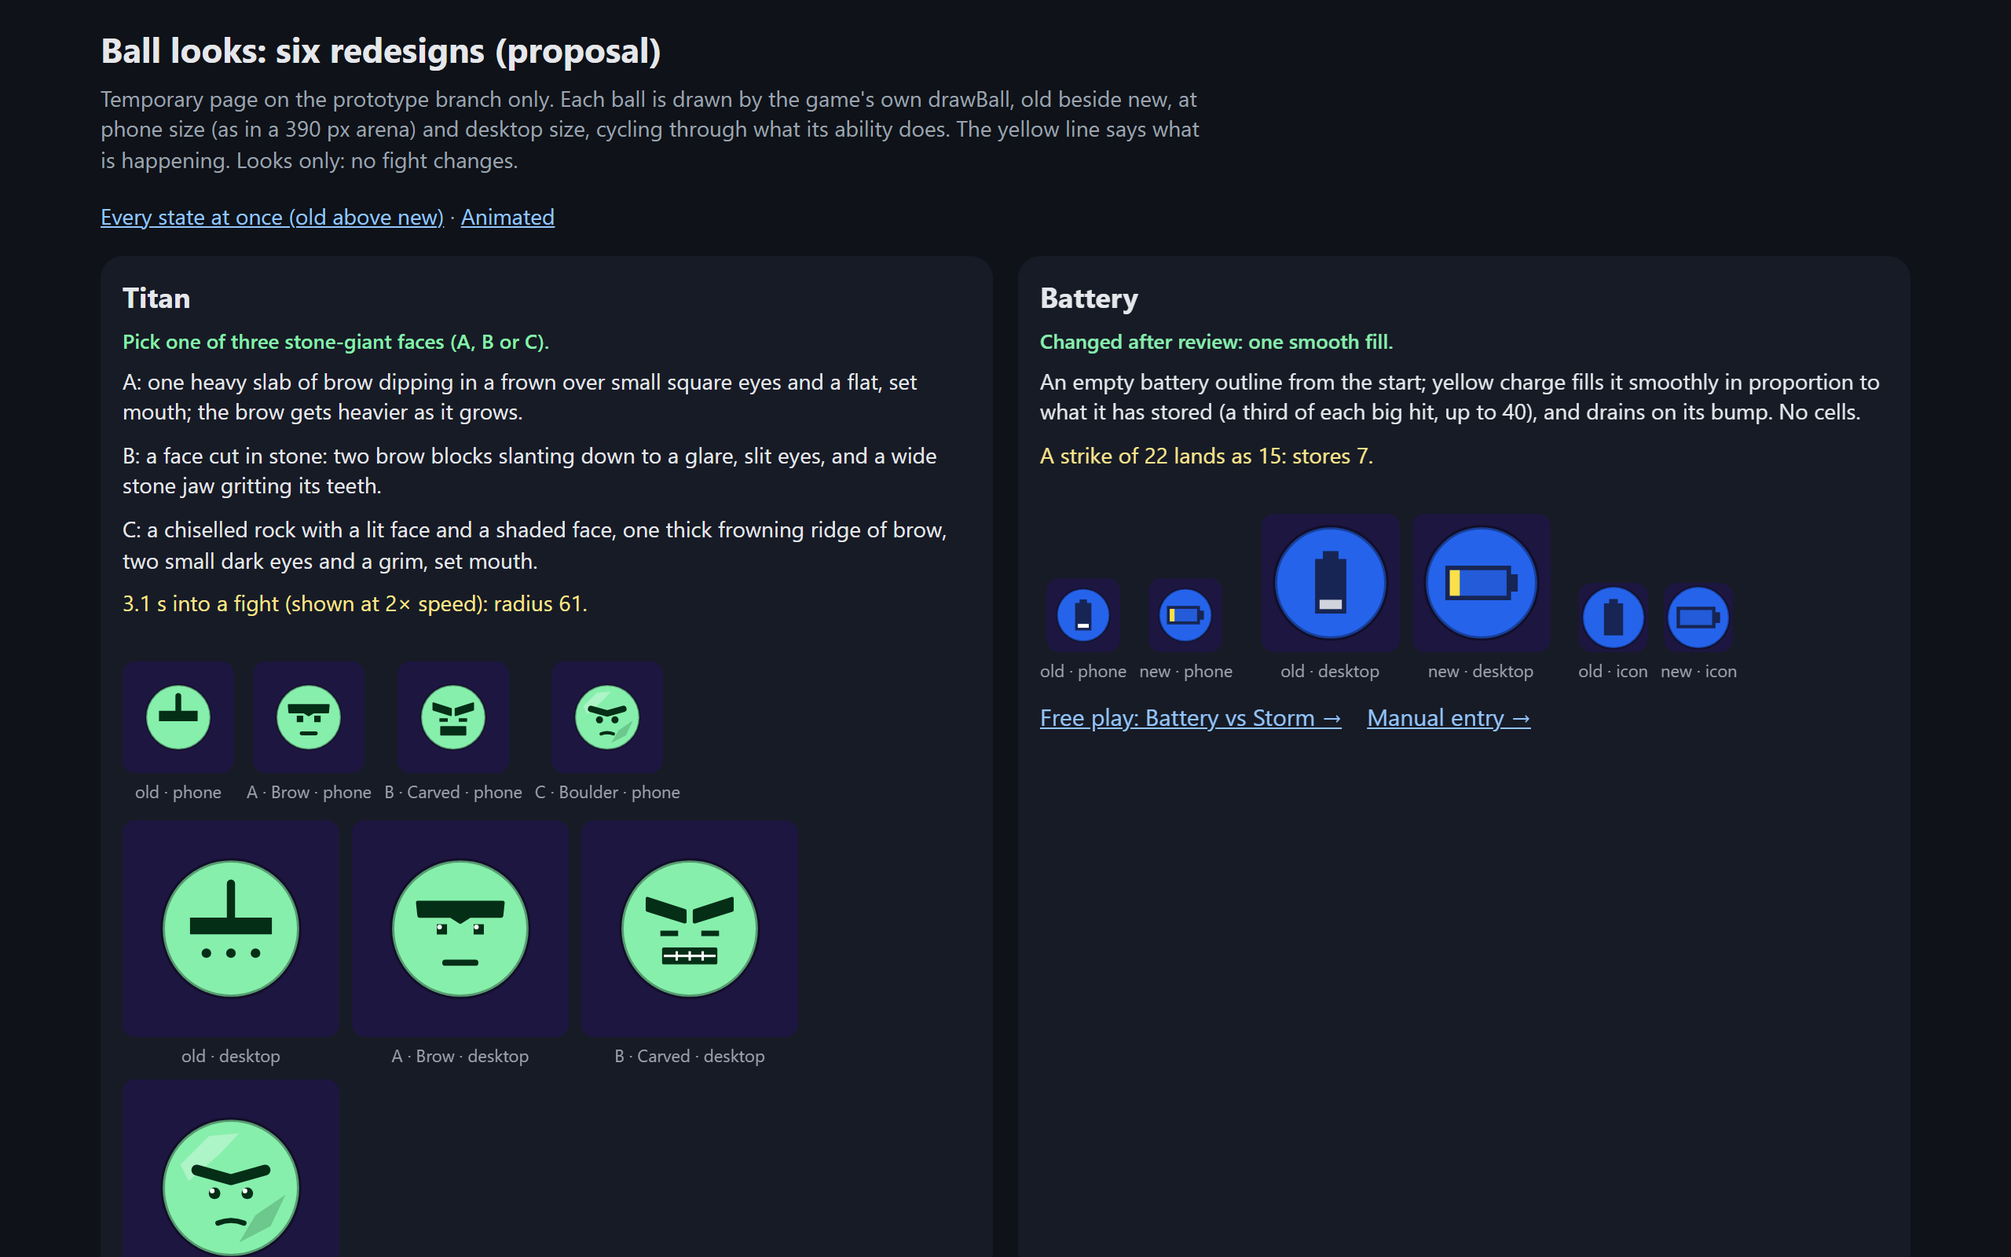
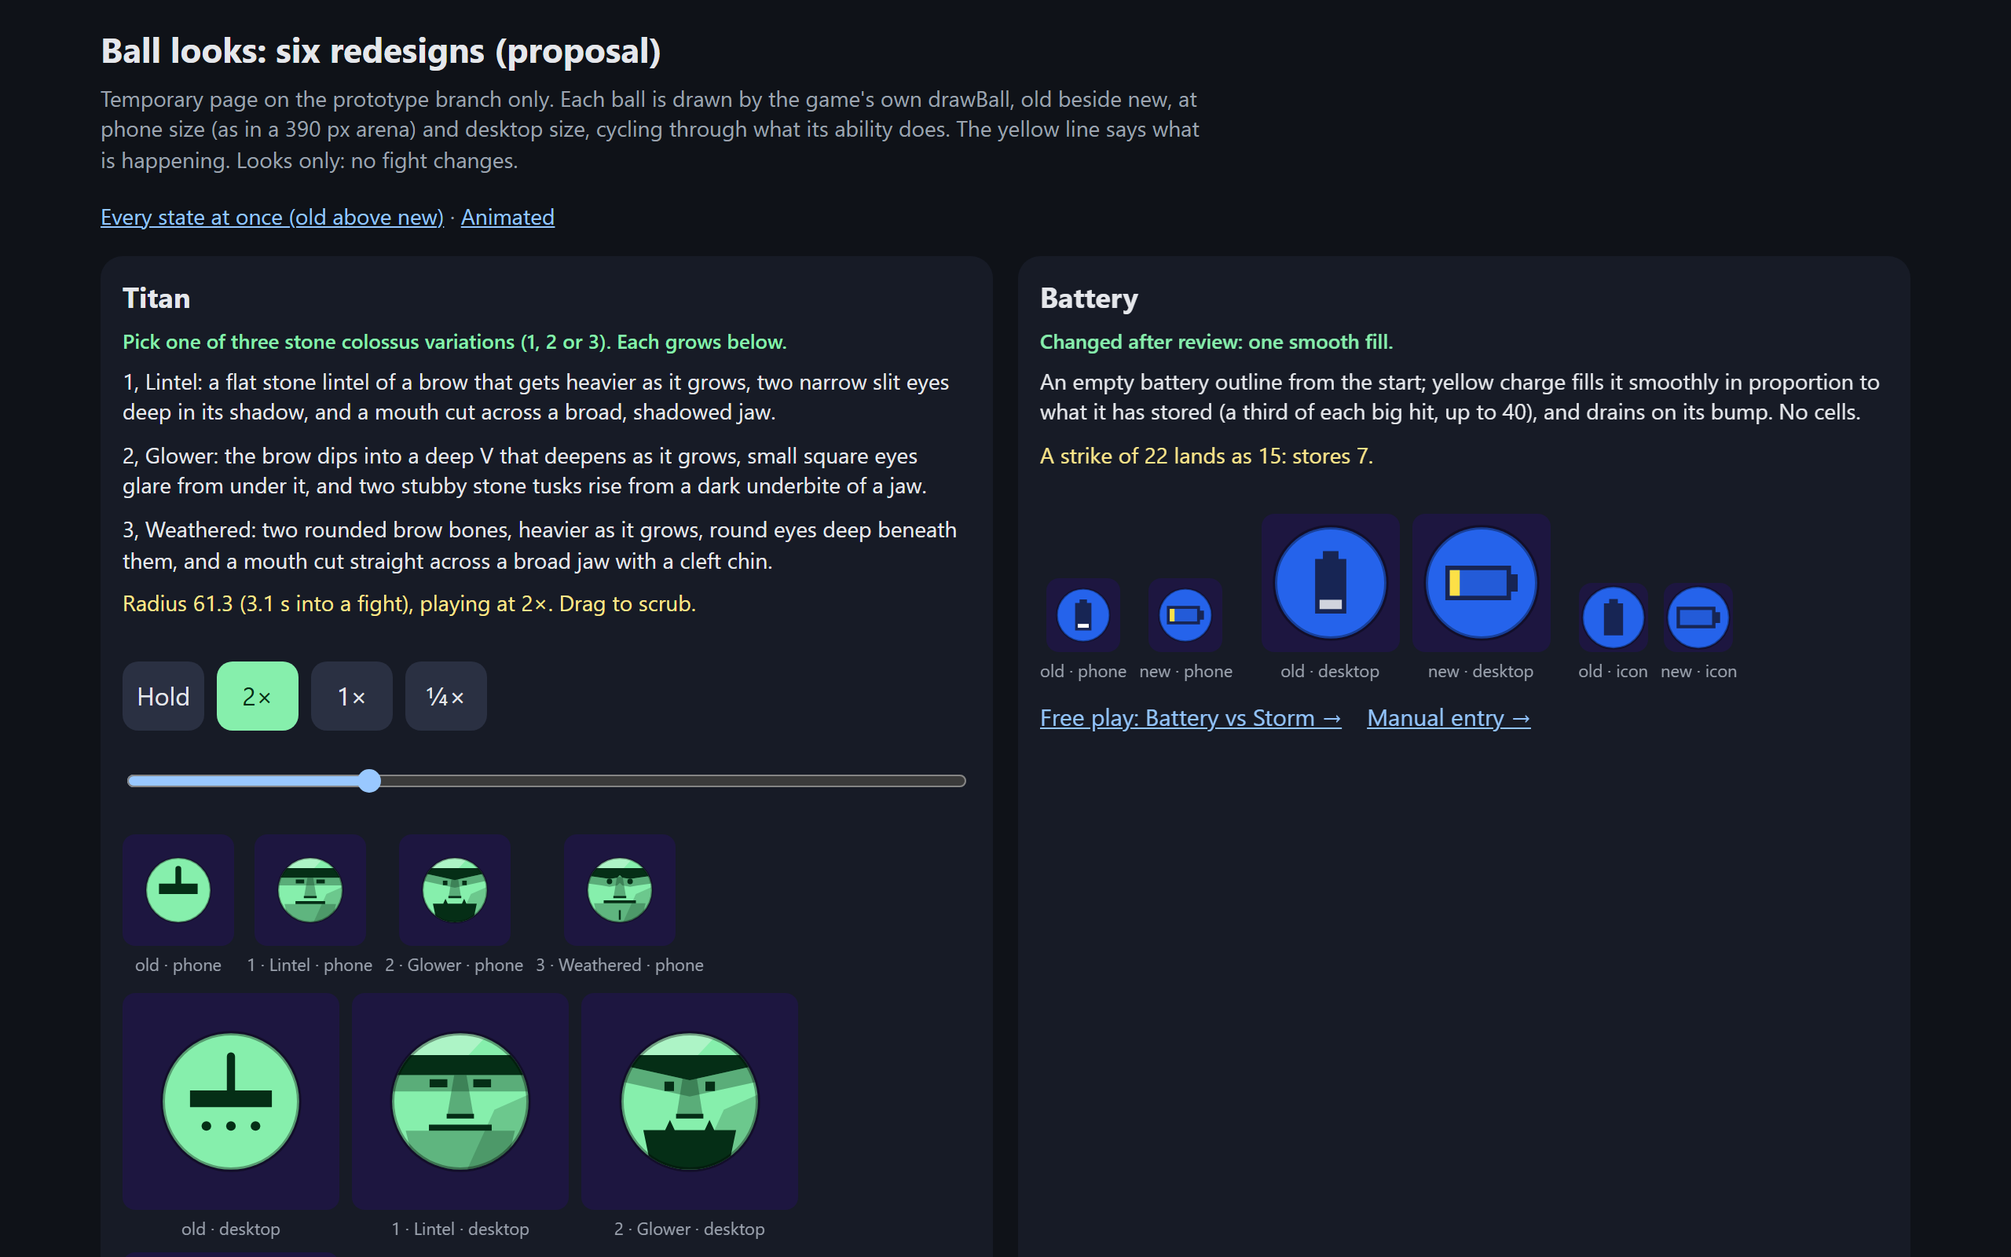
docs(proposal): gallery round 3, the colossus growing with a scrubber (prototype only)
Each Titan variation grows on its own at phone and desktop size, at 2x, 1x
or 1/4 speed or held at any size on a slider, with a Free play link each;
screenshots, draw cost and the write-up updated.

Changed region(s): [[0.0625, 0.25, 0.5, 1.0]]

diff --git a/src/gallery/scrub.ts b/src/gallery/scrub.ts
@@ -1,0 +1,79 @@
+// PROTOTYPE ONLY (proto/ball-looks): the Titan's growth controls in the gallery: play it at full,
+// normal or quarter speed, or drag the slider through every size by hand, so a jump would show.
+import { MAX_RADIUS, titanRadius } from '../sim/balls/titan.ts';
+import { STANDARD_BALL_RADIUS } from '../sim/constants.ts';
+import type { GalleryState } from './timelines.ts';
+
+const GROW_TICKS = 667;
+const HOLD_TICKS = 180;
+const SPEEDS = [
+  ['2×', 2],
+  ['1×', 1],
+  ['¼×', 0.25],
+] as const;
+
+export interface Scrub {
+  readonly element: HTMLElement;
+  /** The Titan's state for this frame, `ms` since the page began. */
+  readonly state: (ms: number) => GalleryState;
+}
+
+export function titanScrub(): Scrub {
+  let speed = 2;
+  let playing = true;
+  let growth = 0;
+  let last: number | undefined;
+  const element = document.createElement('div');
+  element.className = 'scrub';
+  const slider = document.createElement('input');
+  slider.type = 'range';
+  slider.min = String(STANDARD_BALL_RADIUS);
+  slider.max = String(MAX_RADIUS);
+  slider.step = '0.1';
+  slider.value = slider.min;
+  slider.setAttribute('aria-label', 'Titan size');
+  slider.addEventListener('input', () => {
+    playing = false;
+    play.textContent = 'Play';
+  });
+  const play = document.createElement('button');
+  play.type = 'button';
+  play.textContent = 'Hold';
+  play.addEventListener('click', () => {
+    playing = !playing;
+    play.textContent = playing ? 'Hold' : 'Play';
+  });
+  const buttons = SPEEDS.map(([label, value]) => {
+    const button = document.createElement('button');
+    button.type = 'button';
+    button.textContent = label;
+    button.dataset['on'] = String(value === speed);
+    button.addEventListener('click', () => {
+      speed = value;
+      playing = true;
+      play.textContent = 'Hold';
+      for (const other of buttons) other.dataset['on'] = String(other === button);
+    });
+    return button;
+  });
+  element.append(play, ...buttons, slider);
+
+  const state = (ms: number): GalleryState => {
+    const step = last === undefined ? 0 : ((ms - last) / 1000) * 60 * speed;
+    last = ms;
+    let radius = Number(slider.value);
+    if (playing) {
+      growth = (growth + step) % (GROW_TICKS + HOLD_TICKS);
+      radius = titanRadius(Math.min(growth, GROW_TICKS));
+      slider.value = radius.toFixed(1);
+    }
+    const seconds = (radius - STANDARD_BALL_RADIUS) / 0.06 / 60;
+    const how = playing ? `playing at ${SPEEDS.find(([, v]) => v === speed)?.[0] ?? ''}` : 'held';
+    return {
+      caption: `Radius ${radius.toFixed(1)} (${seconds.toFixed(1)} s into a fight), ${how}. Drag to scrub.`,
+      radius,
+      tick: Math.floor((ms / 1000) * 60),
+    };
+  };
+  return { element, state };
+}

diff --git a/src/gallery/main.ts b/src/gallery/main.ts
@@ -13,6 +13,7 @@ import { RULESET_VERSION } from '../sim/ruleset.ts';
 import type { BallState, WorldState } from '../sim/types.ts';
 import { createWorld } from '../sim/world.ts';
 import { ENTRIES, type Entry } from './entries.ts';
+import { titanScrub } from './scrub.ts';
 import { TIMELINES, type GalleryState } from './timelines.ts';
 
 /** CSS px per world unit: a phone arena (about 340 px of court) and a desktop one (about 720). */
@@ -98,6 +99,8 @@ interface Live {
   readonly id: string;
   readonly canvases: readonly (readonly [HTMLCanvasElement, BallDesign, number])[];
   readonly caption: HTMLElement;
+  /** Its own state each frame instead of its timeline (the Titan's growth controls). */
+  readonly override?: (ms: number) => GalleryState;
 }
 
 function figure(label: string, canvas: HTMLCanvasElement): HTMLElement {
@@ -171,8 +174,10 @@ function card(entry: Entry): { element: HTMLElement; live: Live } {
   manual.href = `/?view=manual&ball=${entry.id}`;
   manual.textContent = 'Manual entry →';
   links.append(manual);
-  element.append(title, status, ...whys, caption, grid, links);
-  return { element, live: { id: entry.id, canvases, caption } };
+  const scrub = entry.id === 'titan' ? titanScrub() : undefined;
+  element.append(title, status, ...whys, caption, ...(scrub ? [scrub.element] : []), grid, links);
+  const live = { id: entry.id, canvases, caption };
+  return { element, live: scrub === undefined ? live : { ...live, override: scrub.state } };
 }
 
 function start(): void {
@@ -196,7 +201,7 @@ function start(): void {
   const frame = (now: number): void => {
     const tick = Math.floor(((now - began) / 1000) * 60);
     for (const live of lives) {
-      const state = TIMELINES[live.id]?.(tick);
+      const state = live.override?.(now - began) ?? TIMELINES[live.id]?.(tick);
       if (state === undefined) continue;
       if (live.caption.textContent !== state.caption) live.caption.textContent = state.caption;
       const shown = reduced ? { ...state, flash: 0 } : state;

diff --git a/src/gallery/entries.ts b/src/gallery/entries.ts
@@ -38,25 +38,25 @@ export const ENTRIES: readonly Entry[] = [
     id: 'titan',
     old: oldTitanDesign,
     against: 'brawler',
-    status: 'Pick one of three stone-giant faces (A, B or C).',
+    status: 'Pick one of three stone colossus variations (1, 2 or 3). Each grows below.',
     looks: [
       {
-        label: 'A · Brow',
-        design: TITAN_LOOKS.brow,
-        query: 'titan=brow',
-        why: 'A: one heavy slab of brow dipping in a frown over small square eyes and a flat, set mouth; the brow gets heavier as it grows.',
+        label: '1 · Lintel',
+        design: TITAN_LOOKS.lintel,
+        query: 'titan=lintel',
+        why: '1, Lintel: a flat stone lintel of a brow that gets heavier as it grows, two narrow slit eyes deep in its shadow, and a mouth cut across a broad, shadowed jaw.',
       },
       {
-        label: 'B · Carved',
-        design: TITAN_LOOKS.carved,
-        query: 'titan=carved',
-        why: 'B: a face cut in stone: two brow blocks slanting down to a glare, slit eyes, and a wide stone jaw gritting its teeth.',
+        label: '2 · Glower',
+        design: TITAN_LOOKS.glower,
+        query: 'titan=glower',
+        why: '2, Glower: the brow dips into a deep V that deepens as it grows, small square eyes glare from under it, and two stubby stone tusks rise from a dark underbite of a jaw.',
       },
       {
-        label: 'C · Boulder',
-        design: TITAN_LOOKS.boulder,
-        query: 'titan=boulder',
-        why: 'C: a chiselled rock with a lit face and a shaded face, one thick frowning ridge of brow, two small dark eyes and a grim, set mouth.',
+        label: '3 · Weathered',
+        design: TITAN_LOOKS.weathered,
+        query: 'titan=weathered',
+        why: '3, Weathered: two rounded brow bones, heavier as it grows, round eyes deep beneath them, and a mouth cut straight across a broad jaw with a cleft chin.',
       },
     ],
   },

diff --git a/scripts/proto-fight-shots.ts b/scripts/proto-fight-shots.ts
@@ -6,10 +6,9 @@ import { RULESET_VERSION } from '../src/sim/ruleset.ts';
 const BASE = process.argv[2] ?? 'http://localhost:5199';
 const OUT = 'docs/proposals/ball-looks';
 const FIGHTS = [
-  ['titan', 'brawler', 9_000, 'brow'],
-  ['titan', 'brawler', 9_000, 'carved'],
-  ['titan', 'brawler', 9_000, 'boulder'],
-  ['battery', 'storm', 12_000, ''],
+  ['titan', 'brawler', 9_000, 'lintel'],
+  ['titan', 'brawler', 9_000, 'glower'],
+  ['titan', 'brawler', 9_000, 'weathered'],
 ] as const;
 
 const browser = await chromium.launch();
@@ -23,13 +22,11 @@ for (const [name, viewport, scale, reducedMotion] of [
     // A fresh device each time: a matchup seen once skips its Fight! card.
     const context = await browser.newContext({ viewport, deviceScaleFactor: scale, reducedMotion });
     const page = await context.newPage();
-    await page.goto(
-      `${BASE}/?a=${a}&b=${b}&seed=7&v=${String(RULESET_VERSION)}${look === '' ? '' : `&titan=${look}`}`,
-    );
+    await page.goto(`${BASE}/?a=${a}&b=${b}&seed=7&v=${String(RULESET_VERSION)}&titan=${look}`);
     await page.getByRole('button', { name: 'Fight!' }).click();
     await page.waitForTimeout(wait);
     await page.screenshot({
-      path: `${OUT}/fight-${a}${look === '' ? '' : `-${look}`}-${b}-${name}.png`,
+      path: `${OUT}/fight-${a}-${look}-${b}-${name}.png`,
     });
     await context.close();
   }

diff --git a/src/gallery/gallery.css b/src/gallery/gallery.css
@@ -136,3 +136,27 @@ pre {
   color: #9ca3af;
   margin-top: -2px;
 }
+.scrub {
+  display: flex;
+  flex-wrap: wrap;
+  align-items: center;
+  gap: 8px;
+  margin: 0 0 10px;
+}
+.scrub button {
+  min-height: 44px;
+  min-width: 52px;
+  border-radius: 10px;
+  border: 0;
+  background: #2a3042;
+  color: #e5e7eb;
+  font: inherit;
+}
+.scrub button[data-on='true'] {
+  background: #86efac;
+  color: #052e16;
+}
+.scrub input {
+  flex: 1 1 100%;
+  min-height: 44px;
+}

diff --git a/src/gallery/strips.ts b/src/gallery/strips.ts
@@ -11,7 +11,7 @@ const DESKTOP = 720 / 1016;
 
 /** The ticks that show each step of a ball's timeline, settled (any hit flash faded). */
 const SAMPLES: Readonly<Record<string, readonly number[]>> = {
-  titan: [0, 167, 334],
+  titan: [0, 84, 167, 250, 334],
   berserker: [0, 1, 2, 3, 5, 6, 7].map((step) => step * 66 + 40),
   speedster: [0, 1, 2, 3, 4, 5, 7].map((step) => step * 66 + 40),
   thorns: [40],

diff --git a/docs/proposals/ball-looks/README.md b/docs/proposals/ball-looks/README.md
@@ -5,9 +5,9 @@ unchanged (`src/golden` passes), no `RULESET_VERSION` bump. The render reads one
 the world, how many of a ball's own projectiles are in the air (`DesignView.shotsOut`), and never
 writes to it.
 
-**Round 2 (after the owner's review):** the Berserker, Speedster, Thorns and Boomerang are approved
-as they are. The Battery is now one smooth fill. The Titan's rings are dropped: it is now a stone
-giant's face, in three variations to pick from (`?titan=brow|carved|boulder`, below).
+**Review so far:** the Berserker, Speedster, Thorns, Boomerang and (round 2's smooth-fill) Battery
+are approved. The Titan is in round 3: an ancient stone colossus, in three variations to pick from
+(`?titan=lintel|glower|weathered`, below).
 
 Gallery on the deploy preview: `/ballgallery.html` (animated, old beside new, phone and desktop
 size, the icon, a Free play link per ball) and `/ballgallery.html?strips` (every state at once,
@@ -17,29 +17,37 @@ old above new). The gallery and the `scripts/proto-*` files exist only on this b
 
 | Ball      | New look, in one sentence                                                                                                                                                                                                                                  |
 | --------- | ---------------------------------------------------------------------------------------------------------------------------------------------------------------------------------------------------------------------------------------------------------- |
-| Titan     | A stone giant's face, one of three (below).                                                                                                                                                                                                                |
+| Titan     | An ancient stone colossus, one of three variations (below).                                                                                                                                                                                                |
 | Berserker | Three faint seams, one per hit of rage it can store (the sim's MAX_RAGE is 3): each hit it takes cracks one open, dark with a yellow glow; at 3 they meet in the middle, white-hot; the bump that lets it out closes them.                                 |
 | Speedster | Its dart, wrapped at the back by a five-bar speed gauge: each wall bounce lights a bar, a bump empties them, the empty bars stay faint so it always reads as "3 of 5", and at 5 the dart's heart lights white. Five bars at every size.                    |
 | Thorns    | Its spikes now break out of its edge, so its silhouette itself is the warning (the only spiky ball); it stores nothing, so the look never changes.                                                                                                         |
 | Boomerang | It shows its boomerang only while it holds it: thrown, the ball keeps a faint empty shape until the catch, so you never see two boomerangs at once.                                                                                                        |
 | Battery   | An empty battery outline lying across it from the start, filled smoothly with yellow in proportion to what it has stored (a third of each big strike, blast or burst, up to 40) and drained on its bump; no cells, since a hit stores a share, not a unit. |
 
-### The Titan: three stone-giant faces (pick one)
+### The Titan: an ancient stone colossus, three variations (pick one)
 
-The body already grows on screen, so the face says big and heavy. Each is drawn in the dark accent
-on the Titan's green, reads at phone size, and is unlike the Spartan's helmet and the Ghost's and
-Slime's faces. Try each in a fight: the gallery's Free play links add `&titan=brow|carved|boulder`;
-the choice is kept for the browser tab (sessionStorage), so the manual and picker icons match.
+Round 3. The round-2 faces read as small grumpy emoji in the middle of the ball. Now the face fills
+the ball: a massive brow ridge across the top third casting a band of shadow, small eyes deep in
+it, a broad stone nose, a broad heavy jaw, a lit forehead and a shaded side (C's stone), and a brow
+that gets heavier as it grows (A's). Try each in a fight with the gallery's Free play links
+(`&titan=lintel|glower|weathered`, kept for the browser tab, so the icons match).
 
-- **A, Brow:** one heavy slab of brow dipping in a frown over small square eyes and a flat, set
-  mouth; the only one that reacts to growth, its brow getting heavier as the Titan grows.
-- **B, Carved:** a face cut in stone: two brow blocks slanting down to a glare, slit eyes, and a
-  wide stone jaw gritting its teeth (the gaps between the teeth at full size only).
-- **C, Boulder:** a chiselled rock with a lit face and a shaded face, one thick frowning ridge of
-  brow, two small dark eyes and a grim, set mouth.
+- **1, Lintel:** a flat stone lintel of a brow that gets heavier as it grows, two narrow slit eyes
+  deep in its shadow, and a mouth cut across a broad, shadowed jaw.
+- **2, Glower:** the brow dips into a deep V that deepens as it grows, small square eyes glare from
+  under it, and two stubby stone tusks rise from a dark underbite of a jaw (it can read a little
+  like a beard).
+- **3, Weathered:** two rounded brow bones, heavier as it grows, round eyes deep beneath them, and a
+  mouth cut straight across a broad jaw with a cleft chin.
 
-The switch is prototype-only (`src/app/titan-look.ts`, applied when the ball designs load); the
-final build keeps the chosen face and drops the other two and the switch.
+**Nothing switches at a size.** The Titan's drawing has no size threshold at all: it ignores the
+small-size switch (`simple`) the other balls use, every part is drawn at every size in fractions
+of r, and only the brow deepens, smoothly, with growth. `titan.test.ts` holds it to that across 41
+sizes from start to full, for each variation: the same parts in the same order at every size,
+phone and desktop drawn alike, and no number moving more than 0.02 r between neighbouring sizes.
+Shown to fail with a part hidden above a size (6 failures) and with the lighting's alpha changing at
+a size (3 failures). The gallery plays each growing at 2×, 1× or ¼× speed, or holds it at any size on
+a slider.
 
 Why the Berserker was confusing: the old design drew **one crack at rage 0** and spread 3 rage
 over 6 cracks (0, 1, 2, 3 rage showed 1, 3, 4, 6 cracks), and the bump that releases rage usually
@@ -57,7 +65,7 @@ Icons, the in-fight look and HUD: the picker and manual icons are drawn by the s
   scale and a 1280 px desktop arena's scale (the gallery's `?strips` view).
 - `gallery-phone.png`, `gallery-desktop.png`: the animated gallery.
 - `fight-*.png`: the new looks in real Free play fights (phone 390 x 664, desktop 1280 x 800, and
-  the Berserker with reduced motion); `fight-titan-<face>-brawler-*.png` for each Titan face.
+  the Berserker with reduced motion); `fight-titan-<variation>-brawler-*.png` for each Titan variation.
 
 ## Descriptions against the sim (wording only)
 
@@ -88,18 +96,17 @@ timeline, best of 6 passes, Chromium, microseconds per ball per frame (`draw-cos
 
 | Ball      | Old (1x / 6x slower CPU) | New (1x / 6x)   |
 | --------- | ------------------------ | --------------- |
-| Titan A   | 3.3 / 34-36              | 4.1 / 45-47     |
-| Titan B   | 3.1-3.3 / 31-35          | 4.3-4.5 / 46-48 |
-| Titan C   | 2.8-3.1 / 28-31          | 4.3-4.5 / 43-46 |
+| Titan 1-3 | 2.8-3.5 / 29-40          | 7.1-8.0 / 78-93 |
 | Berserker | 3.3 / 33                 | 4.2 / 42        |
 | Speedster | 3.2 / 31                 | 3.7-4.0 / 36-41 |
 | Thorns    | 4.5-5.0 / 46-50          | 8.0-9.5 / 85-94 |
 | Boomerang | 2.3-2.5 / 25             | 2.7-2.8 / 27-28 |
 | Battery   | 2.8-3.1 / 30             | 3.3 / 34        |
 
-(Round 2 numbers for the Titan and Battery; the first round's tree rings cost 85 µs at 6x.) The
-Thorns' spiky outline costs the most, about 0.05 ms more a frame at 6x; each Titan face about
-0.012 ms more and the Battery 0.004 ms, against a frame whose median was 2.2 ms at 6x (ADR 0063). `frame-pacing.touch.browser.test.ts`
+(Titan: round 3, the colossus; Battery: round 2.) The Thorns' spiky outline and the Titan's
+colossus cost the most, each about 0.05 ms more a frame at 6x (the colossus is seven fills inside a
+clip to the ball); the Battery 0.004 ms; against a frame whose median was 2.2 ms at 6x (ADR 0063),
+about 2% each. `frame-pacing.touch.browser.test.ts`
 (p95 frame work under half a 60 Hz beat, and the trail on frames 26 ms or more apart) passes.
 
 ## Low Power Mode and reduced motion
@@ -112,9 +119,9 @@ Thorns' spiky outline costs the most, about 0.05 ms more a frame at 6x; each Tit
 
 ## Checks run
 
-`pnpm typecheck`, ESLint and Prettier on every changed file, `pnpm test` (187 files, 1226
+`pnpm typecheck`, ESLint and Prettier on every changed file, `pnpm test` (188 files, 1237
 tests), and the whole browser suite in Chromium (54 files, 155 tests, golden results included),
-then the built gallery and a `?titan=` fight under `pnpm preview`'s production headers (no
+then the built gallery, its `?strips` view and a `?titan=` fight under `pnpm preview`'s production headers (no
 console errors). Fixed in round 2: designs now scale the alpha they are drawn at (a defeated or
 phased ball stayed partly opaque), and the gallery's stylesheet uses the allowed desktop media
 query (`layout-queries.test.ts` failed on it in the first push's CI). CI's WebKit phones job fails
